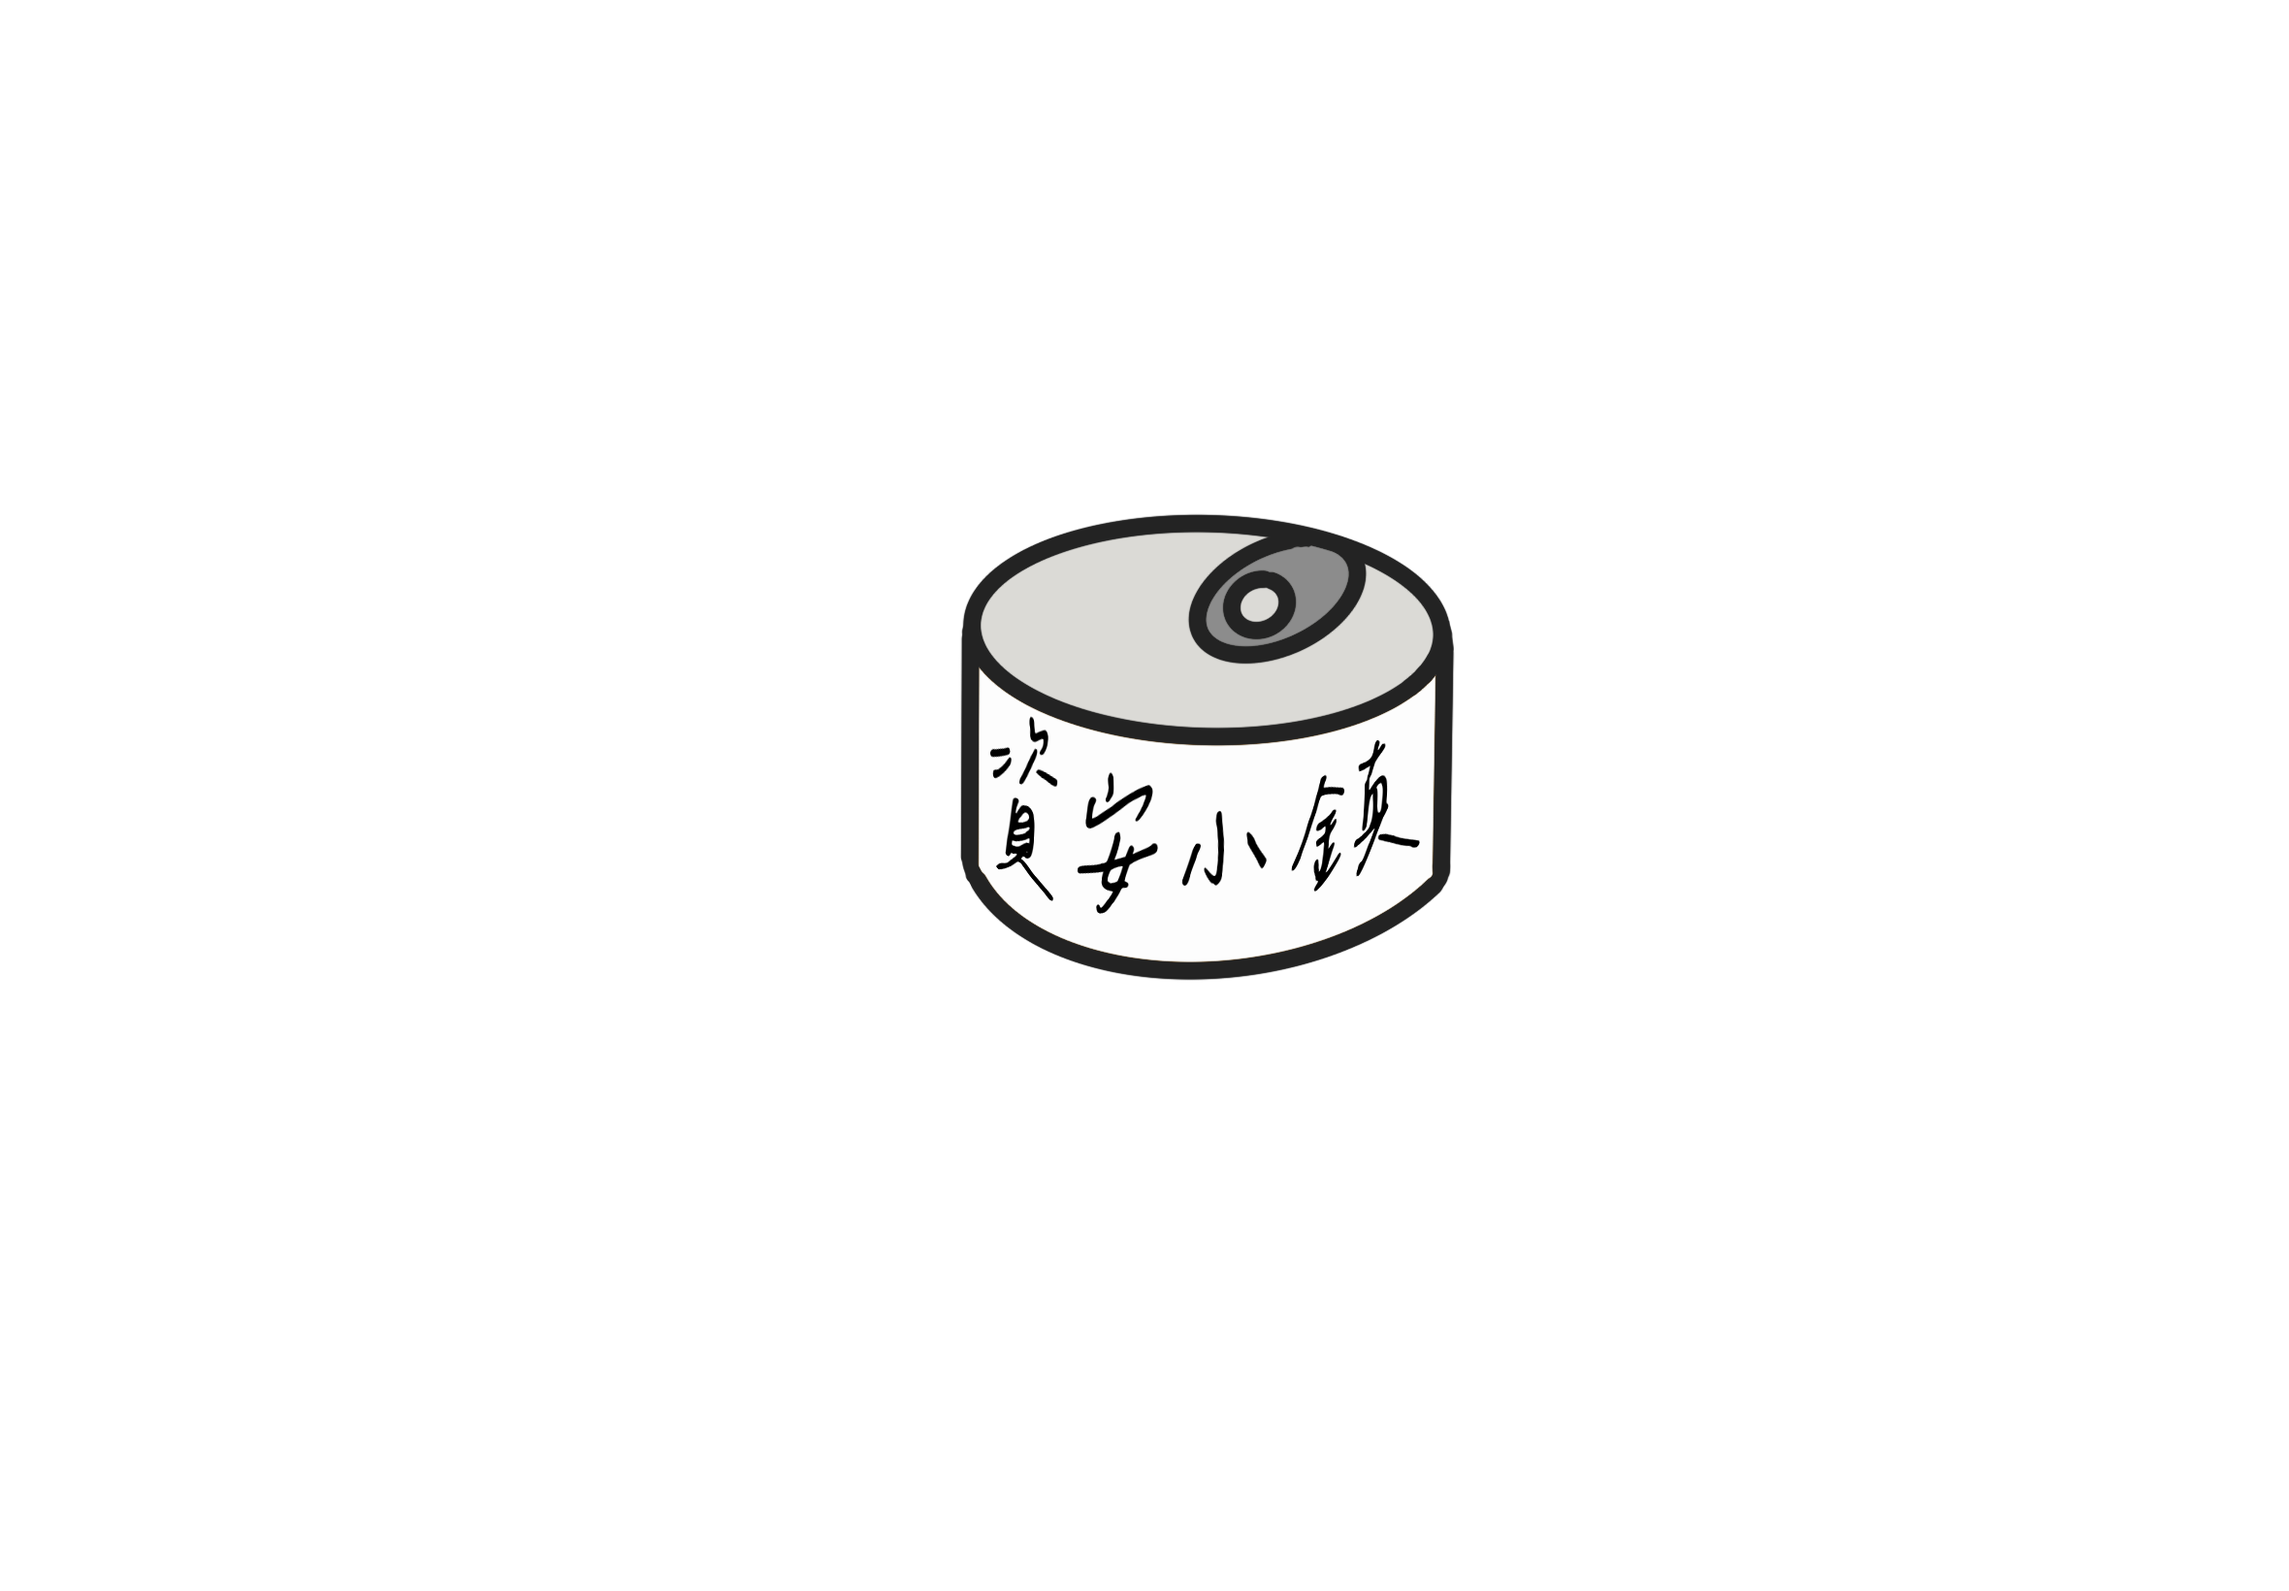
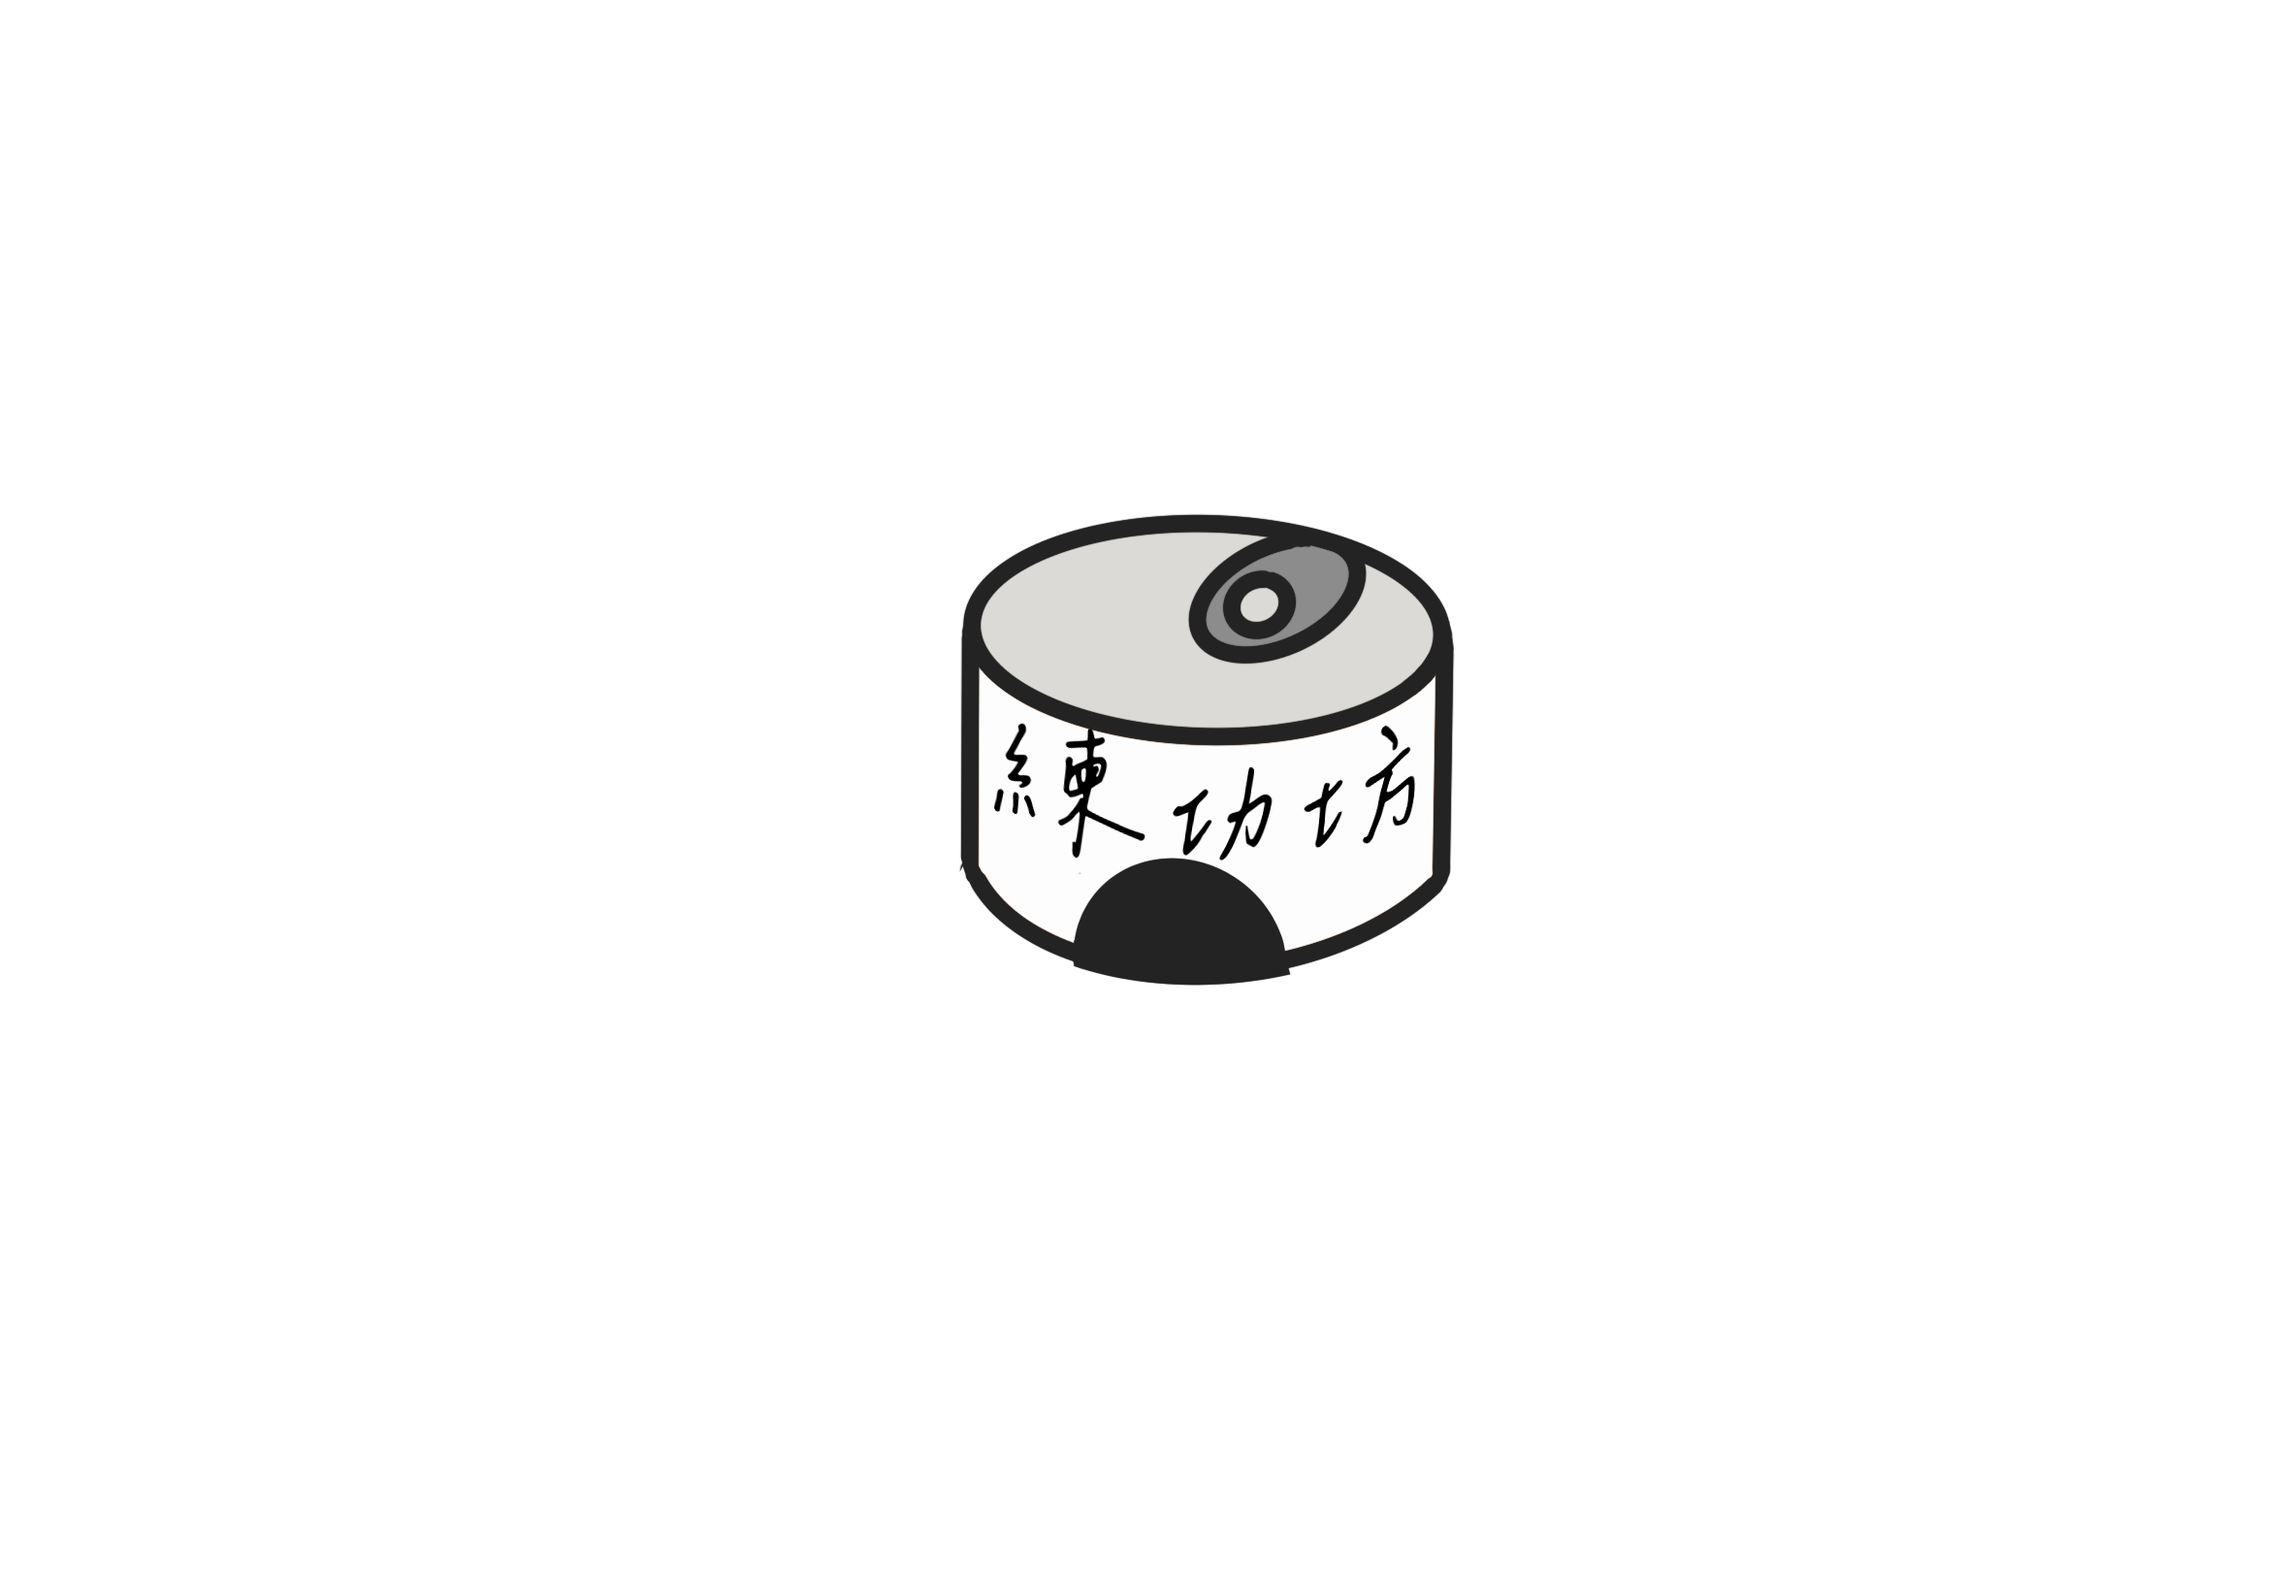
練功房的門

Changed region(s): [[0.4331, 0.4354, 0.6186, 0.622]]

diff --git a/frontend/src/game/IsoGrid.js b/frontend/src/game/IsoGrid.js
@@ -4,6 +4,7 @@ import landImg from '@/assets/land.png'
 import { useBuildingStore } from '@/stores/buildings'
 import { useWallStore } from '@/stores/wall'
 import castleImg from '@/assets/castle0.png'
+import can1Img from '@/assets/can1.png'
 
 const CASTLE_TILES = new Set([
   '0,0','0,1','0,2',
@@ -58,6 +59,10 @@ export class IsoGrid {
     // 確保容器可以接收交互事件
     this.gridContainer.interactive = true
     this.gridContainer.eventMode = 'static'
+    
+    // 城堡碰撞檢測相關屬性
+    this.castleHit = false // 是否已經碰到城堡
+    this.castleContainer = null // 城堡容器引用
     
     this.app.stage.addChild(this.gridContainer)
     this.gridContainer.addChild(this.groundContainer)
@@ -172,6 +177,14 @@ export class IsoGrid {
     } catch (e) {
       console.warn('⚠ 城堡基礎圖片載入失敗，使用後備方案:', e)
       this.castleTextures[0] = PIXI.Texture.from(castleImg)
+    }
+    
+    // 載入 can1.png 作為城堡被碰到的替換圖片
+    try {
+      this.castleTextures['can1'] = await PIXI.Assets.load(can1Img)
+    } catch (e) {
+      console.warn('⚠ can1.png 載入失敗，使用後備方案:', e)
+      this.castleTextures['can1'] = PIXI.Texture.from(can1Img)
     }
     
   // 動態載入城堡升級層級圖片（castle1.png 到 castle10.png）
@@ -391,6 +404,9 @@ export class IsoGrid {
       // 確保城堡不攔截點擊事件
       castleContainer.eventMode = 'none'
       
+      // 保存城堡容器引用以便後續操作
+      this.castleContainer = castleContainer
+      
       const castleX = (castleCenterCol - castleCenterRow) * halfW
       const castleY = (castleCenterCol + castleCenterRow) * halfH
       
@@ -459,6 +475,128 @@ export class IsoGrid {
         }
       }
     }
+  }
+
+  /**
+   * 檢查玩家是否碰到城堡
+   * @param {number} playerX - 玩家 X 座標
+   * @param {number} playerY - 玩家 Y 座標
+   * @returns {boolean} 是否碰到城堡
+   */
+  checkCastleCollision(playerX, playerY) {
+    const halfW = this.tileSize / 2
+    const halfH = this.tileSize / 4
+    
+    // 將等角座標轉換為網格座標
+    const cartX = (playerX / halfW + playerY / halfH) / 2
+    const cartY = (playerY / halfH - playerX / halfW) / 2
+    
+    // 四捨五入取得整數網格座標
+    const col = Math.round(cartX)
+    const row = Math.round(cartY)
+    
+    // 檢查是否在城堡區域內
+    return isCastleTile(row, col)
+  }
+
+  /**
+   * 當玩家碰到城堡時，將城堡圖片替換為 can1.png（僅替換 castle0.png 層）
+   */
+  replaceCastleWithCan1() {
+    if (this.castleHit || !this.castleContainer || !this.castleTextures['can1']) {
+      return
+    }
+    
+    this.castleHit = true
+    console.log('🏰 玩家碰到城堡！將 castle0.png 替換為 can1.png')
+    
+    // 清除現有的城堡層級
+    this.castleContainer.removeChildren()
+    
+    const wallStore = useWallStore()
+    const castleLevel = wallStore.castleLevel || 0
+    
+    // 重新繪製城堡，但將第0層替換為 can1.png
+    for (let level = 0; level <= castleLevel; level++) {
+      let texture
+      
+      if (level === 0) {
+        // 第0層使用 can1.png
+        texture = this.castleTextures['can1']
+      } else {
+        // 其他層級使用原本的城堡圖片
+        texture = this.castleTextures[level]
+      }
+      
+      if (texture) {
+        const castleLayer = new PIXI.Sprite(texture)
+        castleLayer.eventMode = 'none'
+        castleLayer.anchor.set(0.5, 0.55)
+        const castleScale = 2.5
+        castleLayer.width = this.tileSize * 3 * castleScale
+        castleLayer.height = this.tileSize * 2 * castleScale
+        castleLayer.zIndex = 5 + level // 每層級增加 zIndex，確保正確疊加
+        
+        // 讓上層稍微偏移，營造疊加效果
+        if (level > 0) {
+          // Y軸稍微向上偏移（讓上層看起來更高）
+          castleLayer.y = -level * 112
+        }
+        this.castleContainer.addChild(castleLayer)
+      }
+    }
+    
+    console.log('✅ 城堡第0層已替換為 can1.png')
+  }
+
+  /**
+   * 繪製城堡（用於重置時）
+   */
+  drawCastle() {
+    if (!this.castleContainer || !this.castleTextures) {
+      return
+    }
+    
+    const wallStore = useWallStore()
+    const castleLevel = wallStore.castleLevel || 0
+    
+    // 繪製城堡層級（從基礎層到當前等級）
+    for (let level = 0; level <= castleLevel; level++) {
+      if (this.castleTextures[level]) {
+        const castleLayer = new PIXI.Sprite(this.castleTextures[level])
+        castleLayer.eventMode = 'none'
+        castleLayer.anchor.set(0.5, 0.55)
+        const castleScale = 2.5
+        castleLayer.width = this.tileSize * 3 * castleScale
+        castleLayer.height = this.tileSize * 2 * castleScale
+        castleLayer.zIndex = 5 + level // 每層級增加 zIndex，確保正確疊加
+        
+        // 讓上層稍微偏移，營造疊加效果
+        if (level > 0) {
+          // Y軸稍微向上偏移（讓上層看起來更高）
+          castleLayer.y = -level * 112
+        }
+        this.castleContainer.addChild(castleLayer)
+      }
+    }
+  }
+
+  /**
+   * 重置城堡圖片為原始狀態（當玩家離開城堡時）
+   */
+  resetCastleImage() {
+    if (!this.castleHit || !this.castleContainer) {
+      return
+    }
+    
+    this.castleHit = false
+    console.log('🏰 玩家離開城堡，重置城堡圖片為原始狀態')
+    
+    // 清除現有的城堡層級
+    this.castleContainer.removeChildren()
+    
+    // 重新繪製原始城堡
+    this.drawCastle()
   }
 
   /**

diff --git a/frontend/src/game/Game.js b/frontend/src/game/Game.js
@@ -29,6 +29,7 @@ export class Game {
     this.dragStart = { x: 0, y: 0 };
     this.TILE_SIZE = 150;
     this.gameLoopCallback = null; // 儲存 ticker 回調函數的引用
+    this.wasInCastle = false; // 追蹤玩家是否之前在城堡內
   }
 
   /**
@@ -181,6 +182,23 @@ export class Game {
     // 如果有移動，就更新玩家位置到 store（通常會觸發畫面重繪或狀態同步）
     if (hasMoved) {
         this.playerStore.updatePosition({ x, y });
+        
+        // 檢查城堡碰撞和離開
+        if (this.grid) {
+          const isInCastle = this.grid.checkCastleCollision(x, y);
+          
+          // 如果現在在城堡內，且之前不在城堡內
+          if (isInCastle && !this.wasInCastle) {
+            this.grid.replaceCastleWithCan1();
+          }
+          // 如果現在不在城堡內，且之前在城堡內
+          else if (!isInCastle && this.wasInCastle) {
+            this.grid.resetCastleImage();
+          }
+          
+          // 更新城堡狀態
+          this.wasInCastle = isInCastle;
+        }
     }
 
     // 如果玩家角色物件存在，更新角色的動畫/狀態
